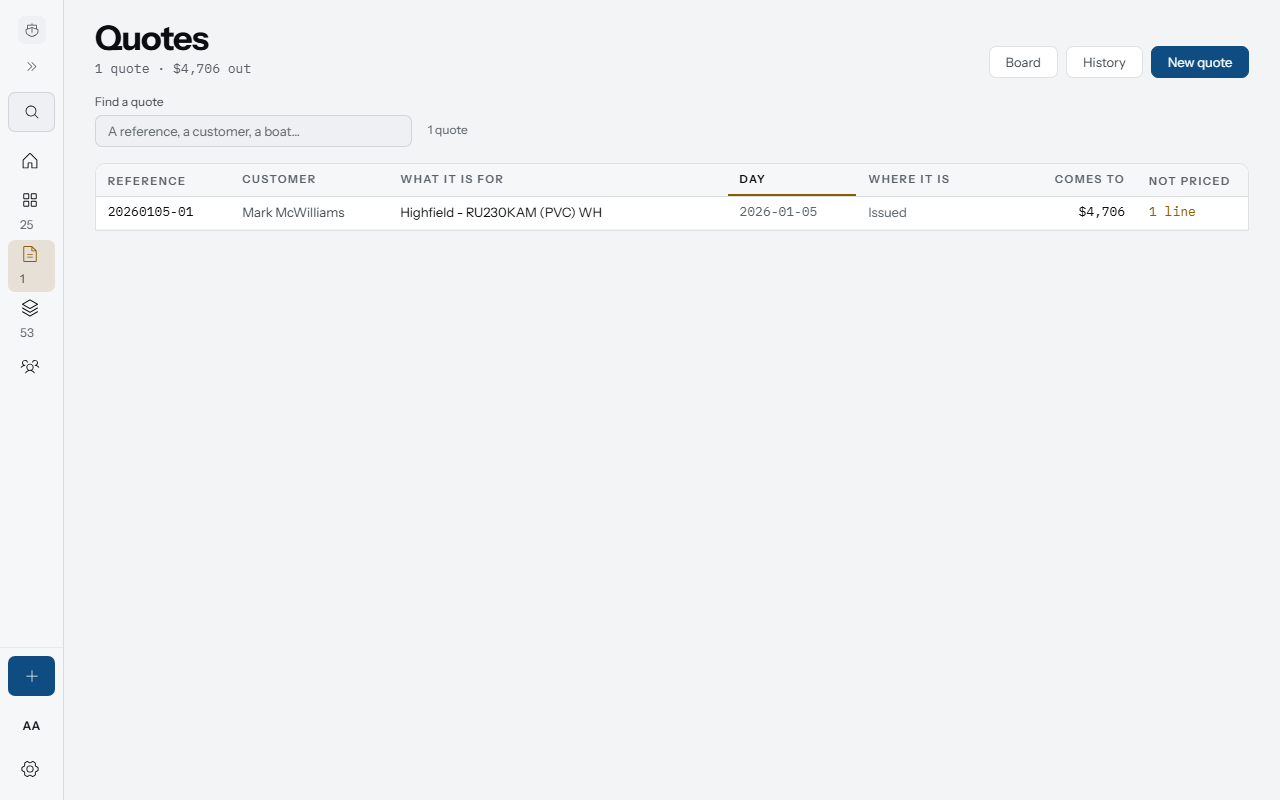
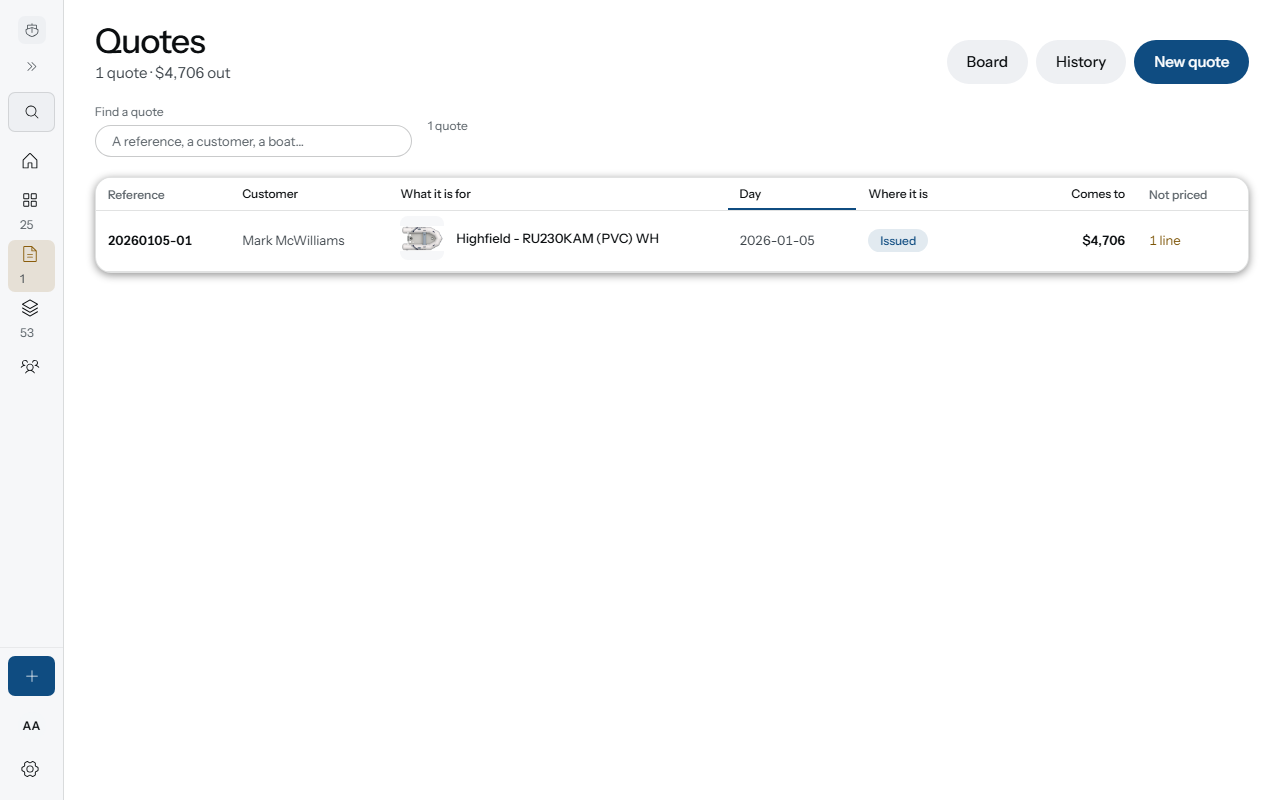
The quotes register speaks the same language: every row leads with the hull
"Now do the same Porsche treatment on the quotes register screen."
Porsche's own register is behind Porsche ID; the public list is Finder,
driven live: a title pair, the filters as chips in a white card, a
results bar with the sort, and every result a card led by the car's
photograph with the facts on one line, the price large, one black pill.
No uppercase anywhere, no mono, nothing without a photograph.

The register is a Cockpit screen — a dealer wants twenty rows, not
twenty cards — so the rows stay rows and the language changes. Every
row leads with the hull: the rows carry the quote's frozen subjectImage
and FrozenPhoto draws it at 44px on an 8px radius. The pipeline is a
row of chips in a card instead of two glass billboards in mono
capitals; the table is a card; every caption is sentence case in the
body face; the stage is a chip, Issued in the action hue; the one act
is the blue pill; the sort's underline and the reference's hover take
the same hue. The title steps down from hero to display because the
sweep measured 4.33x and a Cockpit screen is asked for 2.5-4x; it
measures 2.83x now.

Measured after: types clean, lint 343/343, 468/468 literal px; nothing
overlaps; 1,286 text nodes clear contrast; sweep clean; 14 of 14
baselines re-taken.

Claude-Session: https://claude.ai/code/session_01MC1ZgThVvEeHFfPaBTEjJA

diff --git a/src/features/quote/quotes-screen.css b/src/features/quote/quotes-screen.css
@@ -547,3 +547,303 @@
   flex-wrap: wrap;
   justify-content: flex-end;
 }
+
+/* ============================================================
+   THE REGISTER, IN PORSCHE'S LANGUAGE — 2026-09-15.
+
+   Their list (Porsche Finder, driven live): a title pair at 33/400
+   and 26/400; a white card on a 16px radius for the filters, with
+   the active ones as chips; one for the results bar, with the sort;
+   and every result a white card led by the car's photograph, the
+   name at 26/400, facts on one line separated by middots, the price
+   large, one black pill and one grey. No uppercase anywhere, no
+   mono, and nothing without a photograph.
+
+   This is a COCKPIT register — a dealer wants twenty rows on the
+   screen, not twenty cards — so the rows stay rows. What changes:
+   every row leads with the hull; the pipeline is a row of chips in
+   a card, not two glass billboards in mono capitals; the table is a
+   card; every caption is sentence case in the body face; the stage
+   is a chip; the one act is the blue pill.
+   ============================================================ */
+
+.qz {
+  gap: var(--s-5);
+  padding-top: var(--s-6);
+  background: var(--surface-1);
+}
+
+/* -- the title pair ------------------------------------------- */
+
+.qz-name {
+  font-size: var(--t-hero-size);
+  font-weight: 500;
+  line-height: 1.05;
+  letter-spacing: -0.03em;
+}
+
+.qz-census {
+  font-family: var(--font-sans);
+  font-size: var(--t-heading-size);
+  font-weight: 400;
+  color: var(--fg-secondary);
+}
+
+.qz-way {
+  height: 44px;
+  padding: 0 var(--s-5);
+  border: 0;
+  border-radius: 999px;
+  background: var(--surface-3);
+  color: var(--fg);
+  font-size: var(--t-body-size);
+  font-weight: 500;
+}
+
+@media (hover: hover) and (pointer: fine) {
+  .qz-way:hover {
+    background: var(--surface-4);
+    color: var(--fg);
+  }
+}
+
+.qz-way--go {
+  background: var(--action);
+  color: var(--action-fg);
+}
+
+/* -- the pipeline: chips in a card ------------------------------ */
+
+.qz-pipe {
+  display: flex;
+  flex-wrap: wrap;
+  gap: var(--s-2);
+  padding: var(--s-4) var(--s-5);
+  border: var(--border) solid var(--line);
+  border-radius: 16px;
+  background: var(--surface-1);
+  box-shadow: var(--e-card);
+}
+
+.qz-stage {
+  flex: 0 0 auto;
+  flex-direction: row;
+  align-items: baseline;
+  gap: var(--s-2);
+  min-width: 0;
+  padding: var(--s-2) var(--s-4);
+  border: 0;
+  border-radius: 999px;
+  background: var(--surface-3);
+  color: var(--fg);
+  box-shadow: none;
+  cursor: pointer;
+}
+
+@media (hover: hover) and (pointer: fine) {
+  .qz-stage:hover {
+    background: var(--surface-4);
+    box-shadow: none;
+  }
+}
+
+.qz-stage[aria-pressed='true'] {
+  background: var(--action);
+  color: var(--action-fg);
+}
+
+.qz-stage[aria-pressed='true'] .qz-stage-name,
+.qz-stage[aria-pressed='true'] .qz-stage-worth,
+.qz-stage[aria-pressed='true'] .qz-stage-n {
+  color: var(--action-fg);
+}
+
+.qz-stage-name {
+  color: var(--fg);
+  font-family: var(--font-sans);
+  font-size: var(--t-small-size);
+  font-weight: 600;
+  letter-spacing: 0;
+  text-transform: none;
+}
+
+.qz-stage-worth {
+  font-family: var(--font-sans);
+  font-size: var(--t-small-size);
+  font-weight: 500;
+  letter-spacing: 0;
+  color: var(--fg);
+}
+
+.qz-stage-n {
+  font-family: var(--font-sans);
+  color: var(--fg-tertiary);
+}
+
+.qz-stage-bar {
+  display: none;
+}
+
+/* -- the tools ------------------------------------------------- */
+
+.qz-tools {
+  align-items: center;
+}
+
+.qz-tools .ui-field-input {
+  border: var(--border) solid var(--line-strong);
+  border-radius: 999px;
+  background: var(--surface-1);
+  padding-inline: var(--s-4);
+}
+
+.qz-tools .ui-field-input:focus {
+  border-color: var(--fg);
+  box-shadow: none;
+}
+
+.qz-tools .ui-field-label {
+  color: var(--fg-tertiary);
+}
+
+.qz-count {
+  color: var(--fg-tertiary);
+}
+
+/* -- the table is a card --------------------------------------- */
+
+.qz-port {
+  border: var(--border) solid var(--line);
+  border-radius: 16px;
+  background: var(--surface-1);
+  box-shadow: var(--e-card);
+}
+
+.qz-h {
+  background: var(--surface-1);
+  border-bottom: var(--border) solid var(--line);
+}
+
+.qz-h .t-label,
+.qz-sort {
+  font-family: var(--font-sans);
+  font-size: var(--t-caption-size);
+  font-weight: 500;
+  letter-spacing: 0;
+  text-transform: none;
+  color: var(--fg-tertiary);
+}
+
+.qz-sort[aria-pressed='true'],
+.qz-h[aria-sort] .qz-sort {
+  color: var(--fg);
+}
+
+/* the row leads with the hull, so it is taller than a spreadsheet
+   row and still four of them fit where Porsche fits one */
+.qz-row,
+.qz-c,
+.qz-open {
+  height: 60px;
+}
+
+.qz-c {
+  font-family: var(--font-sans);
+  font-size: var(--t-small-size);
+  color: var(--fg-secondary);
+  border-bottom: var(--border) solid var(--line);
+}
+
+.qz-open {
+  font-family: var(--font-sans);
+  font-weight: 600;
+  font-variant-numeric: tabular-nums;
+  color: var(--fg);
+}
+
+.qz-what {
+  display: inline-flex;
+  align-items: center;
+  gap: var(--s-3);
+  min-width: 0;
+  max-width: 100%;
+}
+
+.qz-pic {
+  flex: 0 0 auto;
+  width: 44px;
+  height: 44px;
+  border-radius: 8px;
+  object-fit: contain;
+  background: var(--surface-2);
+}
+
+.qz-what-name {
+  min-width: 0;
+  overflow: hidden;
+  text-overflow: ellipsis;
+  white-space: nowrap;
+  color: var(--fg);
+  font-weight: 500;
+}
+
+.qz-c--none {
+  color: var(--fg-tertiary);
+  font-style: italic;
+}
+
+.qz-c--day {
+  font-family: var(--font-sans);
+  font-variant-numeric: tabular-nums;
+}
+
+.qz-c--n {
+  font-family: var(--font-sans);
+  font-weight: 600;
+  font-variant-numeric: tabular-nums;
+  color: var(--fg);
+}
+
+.qz-c--held {
+  font-family: var(--font-sans);
+  color: var(--kind-amber);
+}
+
+.qz-chip {
+  display: inline-block;
+  padding: 2px var(--s-3);
+  border-radius: 999px;
+  background: var(--surface-3);
+  color: var(--fg-secondary);
+  font-size: var(--t-caption-size);
+  font-weight: 500;
+  line-height: 1.6;
+}
+
+.qz-chip[data-stage='Issued'] {
+  background: color-mix(in srgb, var(--action) 12%, var(--surface-1));
+  color: var(--action);
+}
+
+.qz-none {
+  color: var(--fg-tertiary);
+}
+
+/* the sort's underline and the reference's hover take the action hue
+   with the rest of the app; and the title steps down from hero to
+   display — the sweep put the register at 4.33x and a Cockpit screen
+   is asked for 2.5-4x */
+.qz-h[aria-sort='descending'] .qz-sort,
+.qz-h[aria-sort='ascending'] .qz-sort {
+  box-shadow: inset 0 -2px 0 var(--action);
+}
+
+@media (hover: hover) and (pointer: fine) {
+  .qz-open:hover {
+    color: var(--action);
+  }
+}
+
+.qz-name {
+  font-size: var(--t-display-size);
+}

diff --git a/src/features/quote/QuotesScreen.tsx b/src/features/quote/QuotesScreen.tsx
@@ -40,7 +40,8 @@ import type { ReactElement } from 'react'
 import { useProjectStore } from '@/store/useProjectStore'
 import { Field } from '@/ui'
 import { money } from '@/lib/money'
-import type { QuoteDef } from '@/types/model'
+import type { ImageRef, QuoteDef } from '@/types/model'
+import { FrozenPhoto } from './photo'
 import { stagesOf, useStages, stageOf } from '@/features/pipeline'
 import { useQuotes } from './quotes'
 import { quoteTotals } from './totals'
@@ -72,6 +73,10 @@ interface Row {
   unpriced: number
   by: string
   hay: string
+  /** the hull, for the row's thumbnail — Porsche's list leads every
+   *  row with the car, and a register of boats without a boat on
+   *  it is a spreadsheet */
+  image?: ImageRef
 }
 
 export function QuotesScreen({
@@ -112,6 +117,7 @@ export function QuotesScreen({
         total: money(totals.total),
         unpriced: totals.unpricedCount,
         by: q.preparedBy ?? '',
+        ...(q.subjectImage ? { image: q.subjectImage } : {}),
         hay: `${q.reference} ${customer} ${q.subjectLabel} ${stage} ${q.preparedBy ?? ''}`.toLowerCase(),
       }
     })
@@ -333,9 +339,16 @@ export function QuotesScreen({
                 <td className={row.customer === 'nobody yet' ? 'qz-c qz-c--none' : 'qz-c'}>
                   {row.customer}
                 </td>
-                <td className="qz-c qz-c--what">{row.subject}</td>
+                <td className="qz-c qz-c--what">
+                      <span className="qz-what">
+                        <FrozenPhoto img={row.image} fallbackAlt={row.subject} className="qz-pic" w={96} h={96} />
+                        <span className="qz-what-name">{row.subject}</span>
+                      </span>
+                    </td>
                 <td className="qz-c qz-c--day">{row.day}</td>
-                <td className="qz-c qz-c--stage">{row.stage}</td>
+                <td className="qz-c qz-c--stage">
+                      <span className="qz-chip" data-stage={row.stage}>{row.stage}</span>
+                    </td>
                 <td className="qz-c qz-c--n">{row.total}</td>
                 {/* A SILENT $0 ON A SUMMARY IS THE CLASS OF FAULT
                     STAKEHOLDERS CATCH — `totals.ts` says so itself, so

diff --git a/src/app/shell.css b/src/app/shell.css
@@ -3445,3 +3445,10 @@
     background: var(--surface-1);
   }
 }
+
+/* the register too */
+@media (max-width: 1024px) {
+  .shell-body:has(.qz) {
+    background: var(--surface-1);
+  }
+}

diff --git a/docs/research/visual-qa-rebuild.md b/docs/research/visual-qa-rebuild.md
@@ -377,3 +377,31 @@ Note for the next person: `check-contrast` and `check-shots` take `--url`,
 not `HL_ORIGIN`; run against 5090 they measured a server that had since
 died and said "No dev server" — with the default port in the sentence,
 whichever port was asked for.
+
+## 2026-09-15, night — the register in Porsche's language
+
+"Now do the same Porsche treatment on the quotes register screen."
+Porsche's saved-vehicles page is behind Porsche ID; the public list is
+Finder (`finder.porsche.com`, driven live): a title pair at 33/400 and
+26/400, the filters as chips in a white card, a results bar with the
+sort, and every result a card led by the car's photograph — the name at
+26/400, facts on one line separated by middots, the price large, one
+black pill and one grey. No uppercase, no mono, nothing without a photo.
+
+The register is COCKPIT — twenty rows, not twenty cards — so the rows
+stay rows and the language changes: every row leads with the hull
+(`QuotesScreen` rows carry the quote's frozen `subjectImage`;
+`FrozenPhoto` draws it at 44px); the pipeline is chips in a card, not
+two glass billboards in mono capitals; the table is a card; captions are
+sentence case in the body face; the stage is a chip; the one act is the
+blue pill. The title is at the display step, because the sweep put the
+hero step at 4.33× and a Cockpit screen is asked for 2.5–4×; it is 2.83×
+now.
+
+| ruler | result |
+|---|---|
+| `check:types` · `lint` · `check:styles` | clean · 343/343 · 468/468 |
+| `check-collide` | nothing overlaps |
+| `check-contrast` | 1,286 text nodes, all clear |
+| `qa-sweep` | clean; quotes 2.83× |
+| `check:shots --update` | 14 of 14 re-taken |
